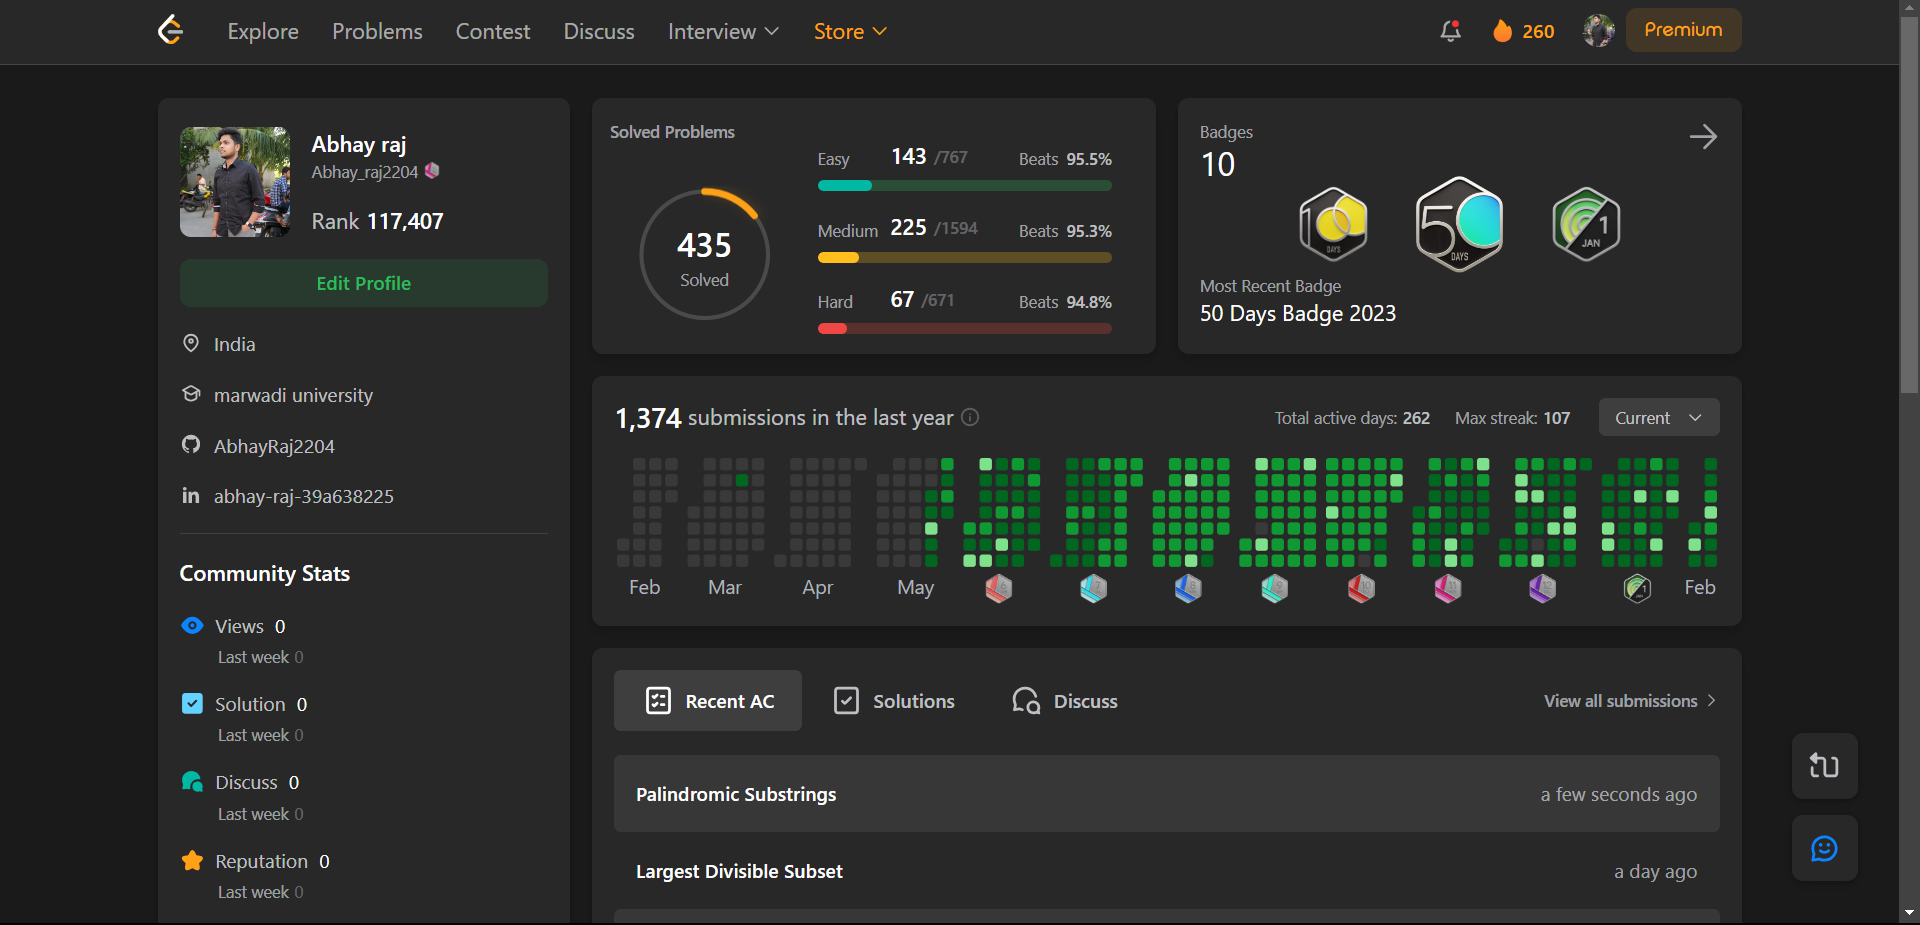
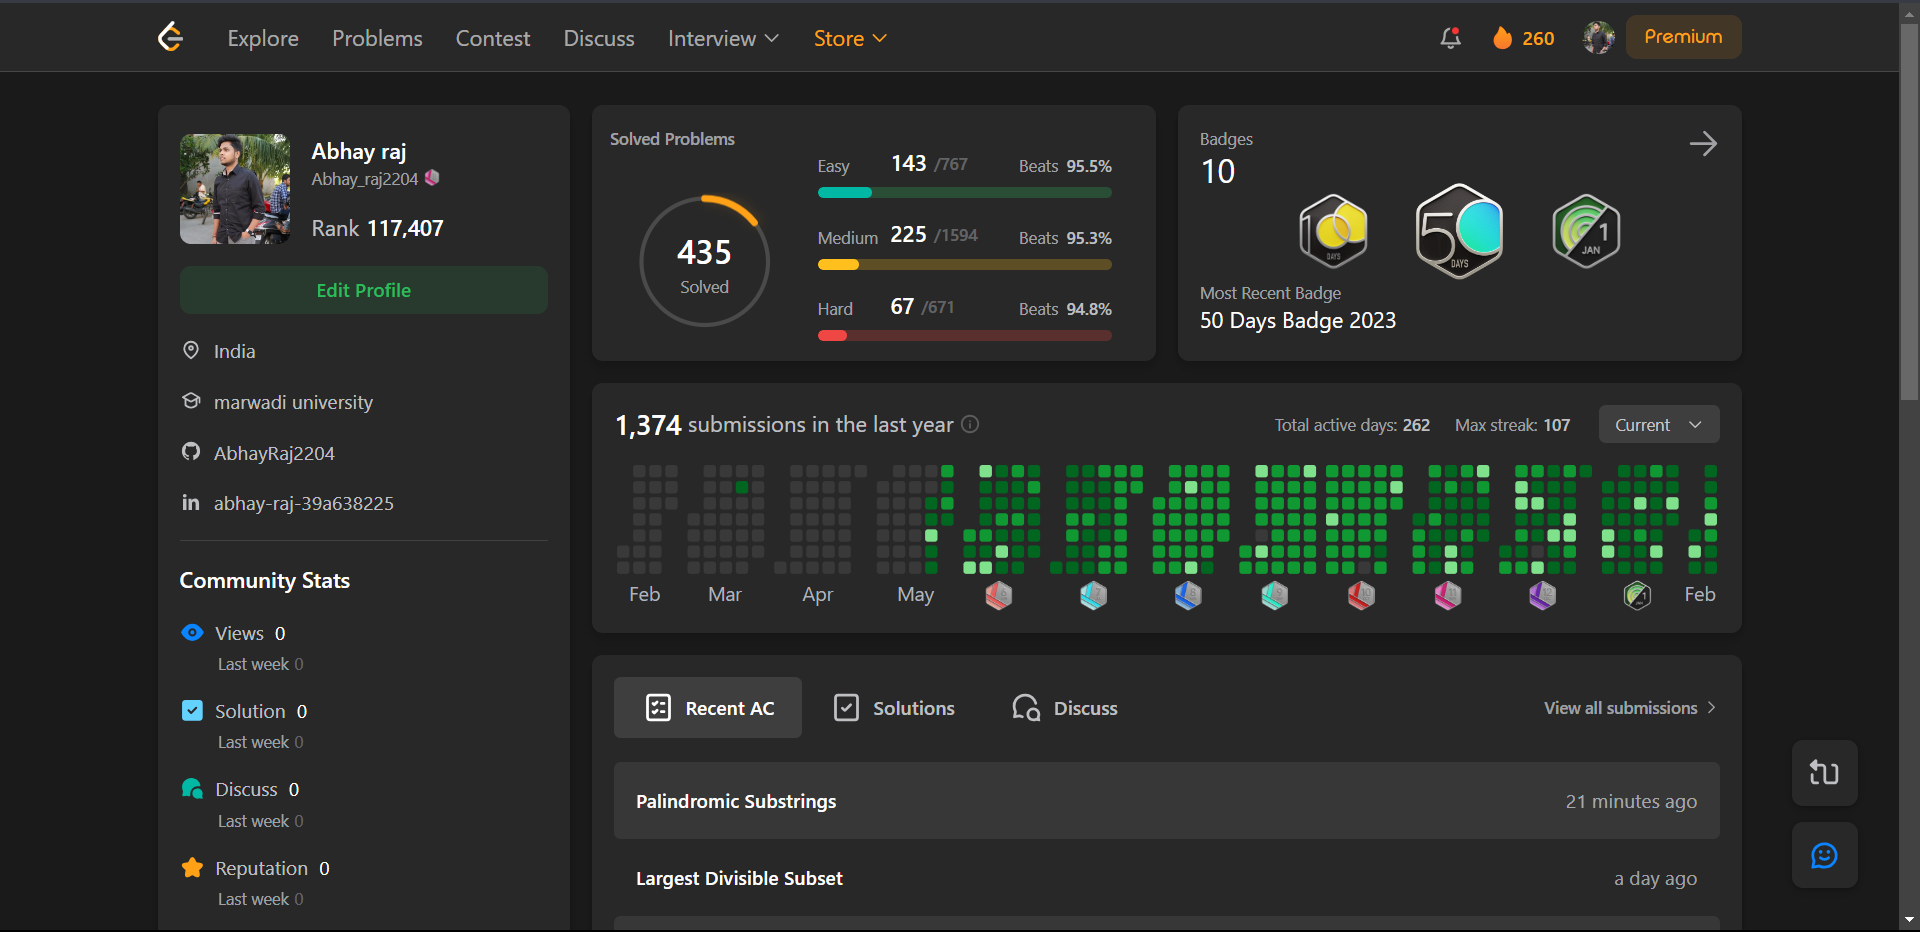
Day-260

diff --git a/Day-260/Palindromic Substrings.java b/Day-260/Palindromic Substrings.java
@@ -1,0 +1,20 @@
+class Solution {
+
+    public boolean isPalindrome(String s, int left, int right) {
+        while(left < right) {
+            if(s.charAt(left++) != s.charAt(right--)) return false;
+        } 
+        return true;
+    }
+    
+    public int countSubstrings(String s) {
+        int ans = 0;
+        int n = s.length();
+        for(int i=0;i<n;i++) {
+            for(int j=i;j<n;j++) {
+                if(isPalindrome(s, i, j)) ans++;
+            }
+        }
+        return ans;
+    }
+}
